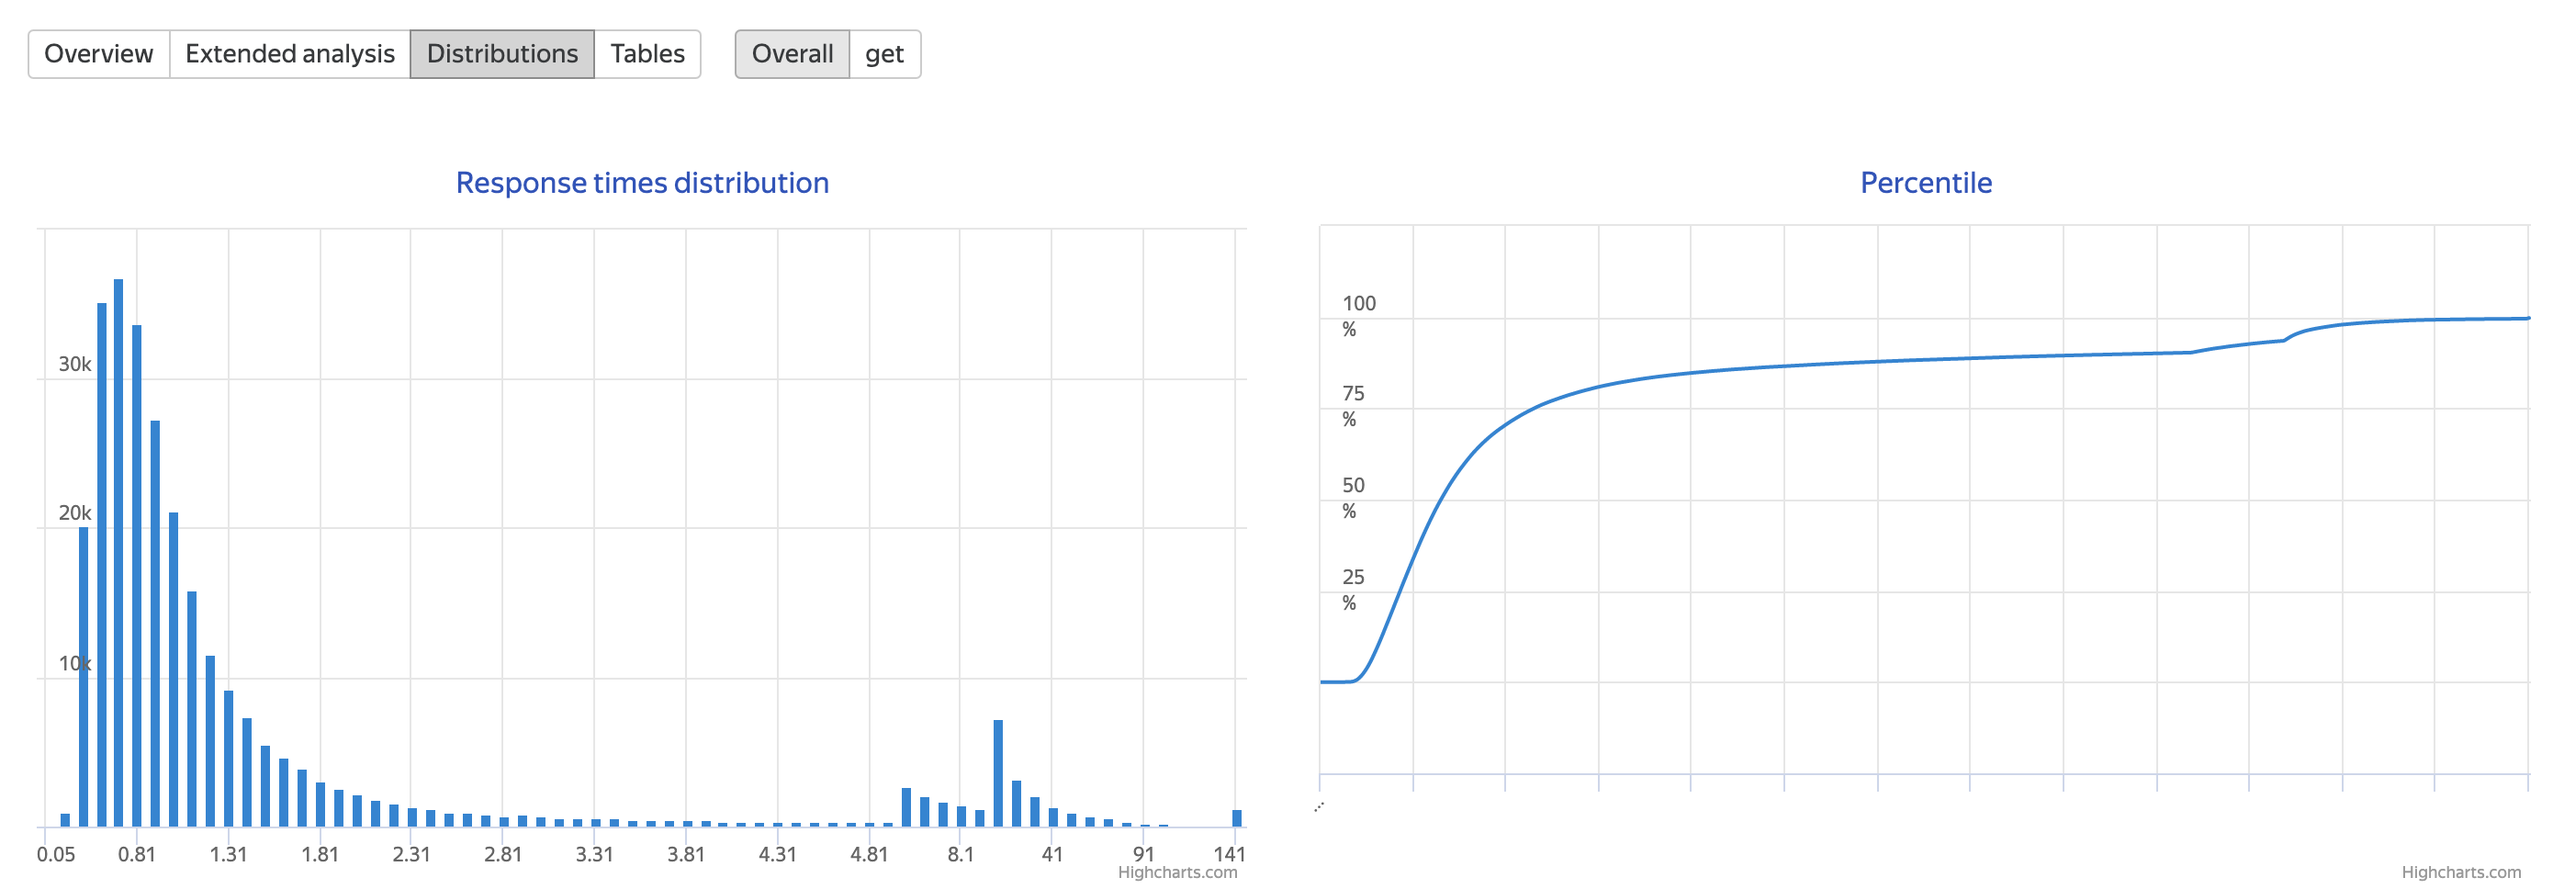
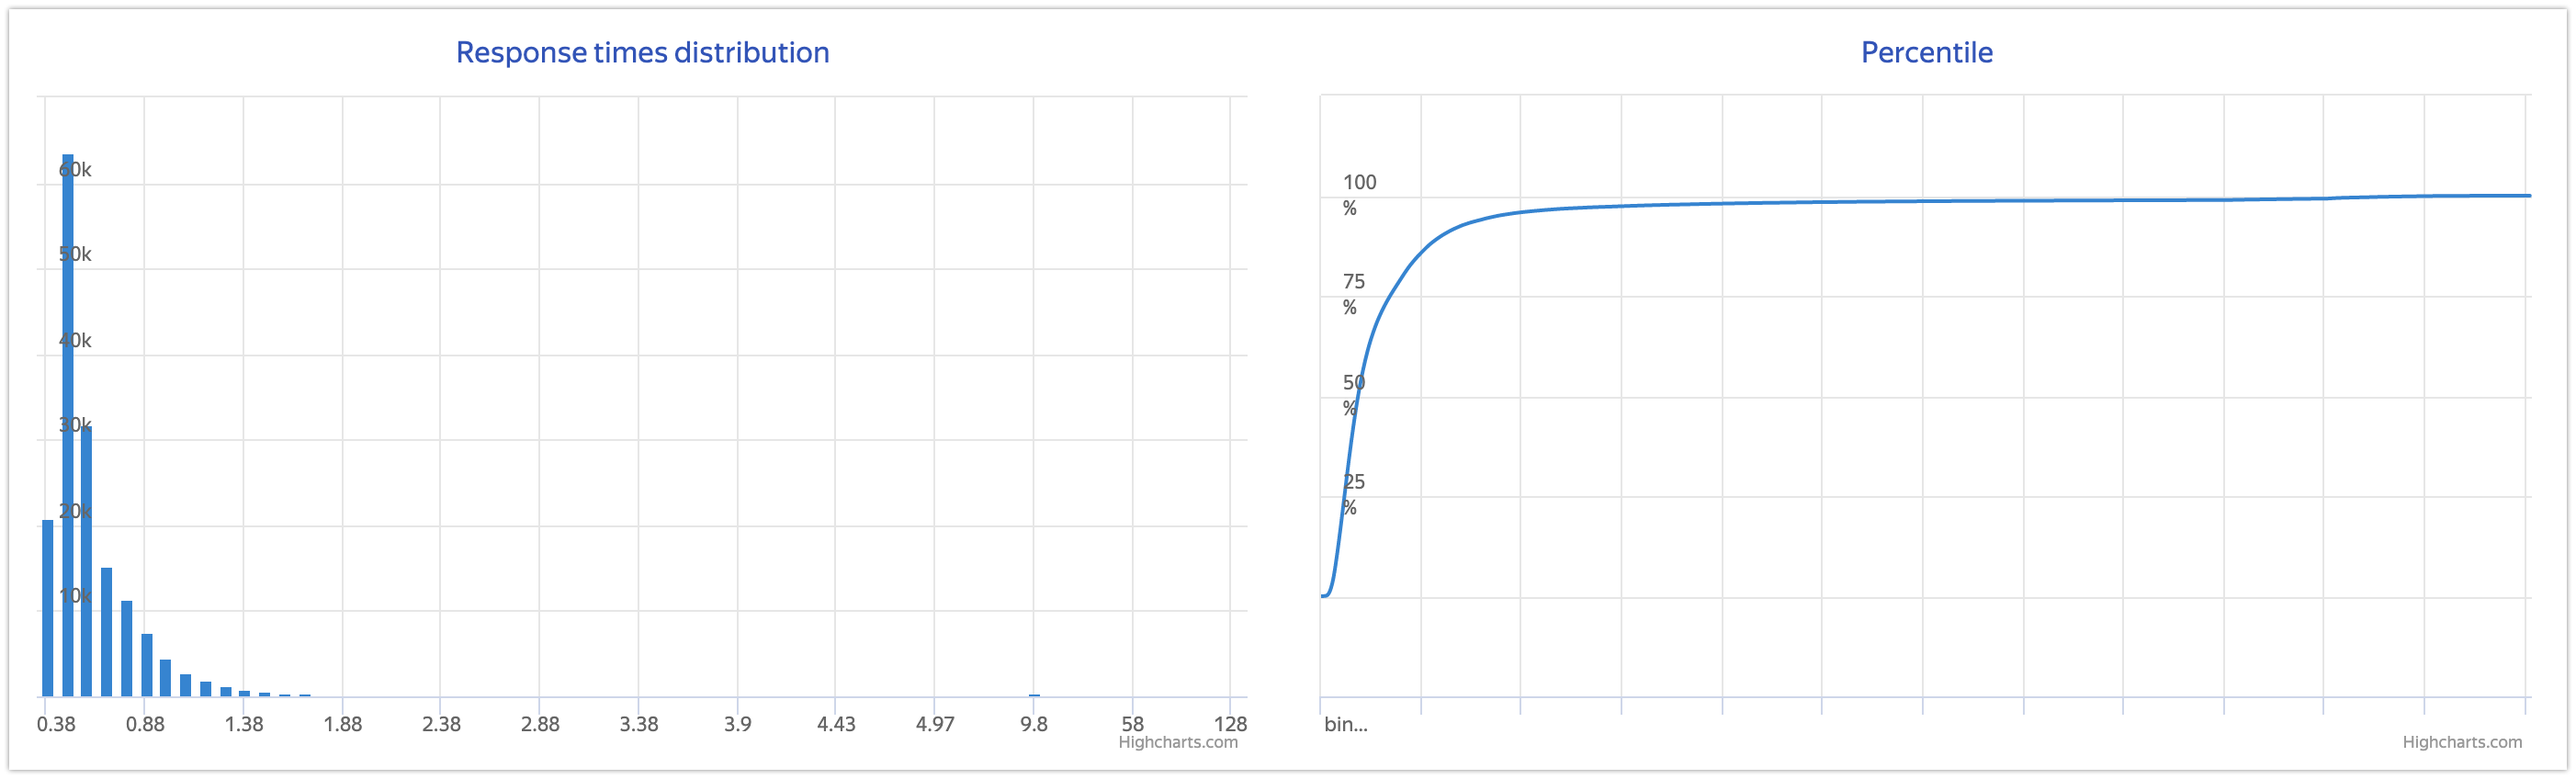
Change pics

diff --git a/docs/Task8.md b/docs/Task8.md
@@ -53,19 +53,19 @@ overload:
 
 Если на этапе проведения тестов 2000 запросов в секунду казалось адекватным значением, во время перехода к боевым стрельбам опытным путем было решено нагрузку уменьшить до 1500 запросов в секунду, а где-то и до 1200 или 1000. При большей нагрузке в ответах появлялись 504 Error Code'ы и небольшой процент 71 Protocol Error. После уменьшения нагрузки имеем 99.9-100% успешно обработанных запросов (Response Code'ы 200, 201, 404).
 
-1. [Лента с PUT-ами с уникальными ключами](https://overload.yandex.net/355603#tab=test_data&tags=&plot_groups=main&machines=&metrics=&slider_start=1606235517&slider_end=1606235817)
+1. [Лента с PUT-ами с уникальными ключами](https://overload.yandex.net/359396#tab=test_data&tags=&plot_groups=main&machines=&metrics=&slider_start=1606927469&slider_end=1606927768&compress_ratio=1)
 ![Лента с PUT-ами с уникальными ключами](assets/stage_8/line_const/put_unique.png)
 
-2. [Лента с PUT-ами с частичной перезаписью ключей (вероятность 10%)](https://overload.yandex.net/355608#tab=test_data&tags=&plot_groups=main&machines=&metrics=&slider_start=1606237187&slider_end=1606237487)
+2. [Лента с PUT-ами с частичной перезаписью ключей (вероятность 10%)](https://overload.yandex.net/358947#tab=test_data&tags=&plot_groups=main&machines=&metrics=&slider_start=1606858021&slider_end=1606858321)
 ![Лента с PUT-ами с частичной перезаписью ключей (вероятность 10%)](assets/stage_8/line_const/put_not_unique.png)
 
-3. [Лента с GET-ами существующих ключей с равномерным распределением (стреляем по наполненной БД)](https://overload.yandex.net/355618#tab=test_data&tags=&plot_groups=main&machines=&metrics=&slider_start=1606238004&slider_end=1606238296)
+3. [Лента с GET-ами существующих ключей с равномерным распределением (стреляем по наполненной БД)](https://overload.yandex.net/358949#tab=test_data&tags=&plot_groups=main&machines=&metrics=&slider_start=1606858499&slider_end=1606858799)
 ![Лента с GET-ами существующих ключей с равномерным распределением (стреляем по наполненной БД)](assets/stage_8/line_const/existing_get_gauss.png)
 
-4. [То же самое, но со смещением распределения GET-ов к недавно добавленным ключам (частый случай на практике)](https://overload.yandex.net/355627#tab=test_data&tags=&plot_groups=main&machines=&metrics=&slider_start=1606238593&slider_end=1606238893)
+4. [То же самое, но со смещением распределения GET-ов к недавно добавленным ключам (частый случай на практике)](https://overload.yandex.net/358951#tab=test_data&tags=&plot_groups=main&machines=&metrics=&slider_start=1606858893&slider_end=1606859193)
 ![То же самое, но со смещением распределения GET-ов к недавно добавленным ключам (частый случай на практике)](assets/stage_8/line_const/existing_get_offset.png)
 
-5. [Наконец, лента со смешанной нагрузкой с 50% PUT-ы новых ключей и 50% GETы существующих ключей (равномерное распределение)](https://overload.yandex.net/355634#tab=test_data&tags=&plot_groups=main&machines=&metrics=&slider_start=1606240780&slider_end=1606241080)
+5. [Наконец, лента со смешанной нагрузкой с 50% PUT-ы новых ключей и 50% GETы существующих ключей (равномерное распределение)](https://overload.yandex.net/358957#tab=test_data&tags=&plot_groups=main&machines=&metrics=&slider_start=1606859279&slider_end=1606859579)
 ![Наконец, лента со смешанной нагрузкой с 50% PUT-ы новых ключей и 50% GETы существующих ключей (равномерное распределение)](assets/stage_8/line_const/mixed_put_get.png)
 
 ## Анализ времени ответа
